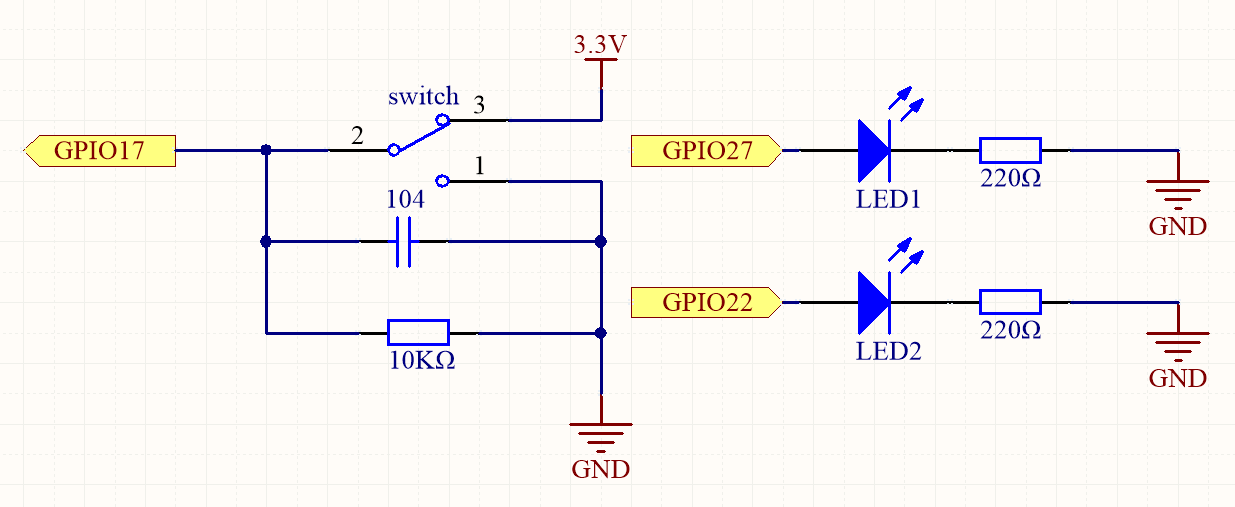
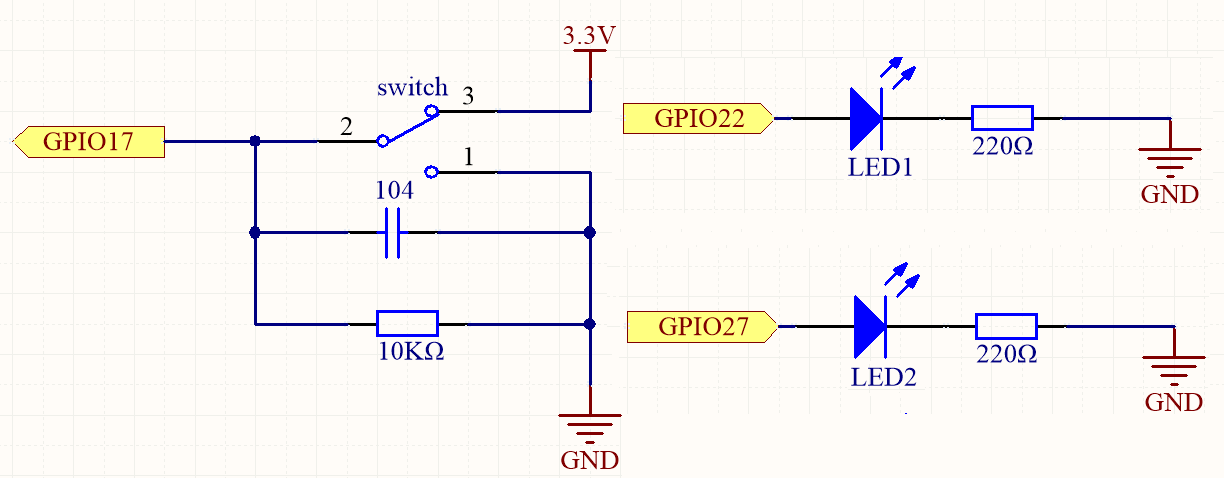
fix(docs): correct Micro Switch LED mapping and update images
- Swap LED1/LED2 logic: pressing the switch lights LED2, releasing lights LED1
- Update circuit and schematic images to match the corrected LED wiring
- Update _shared submodule pointer

diff --git a/docs/source/python_pi5/pi5_2.1.2_micro_switch_python.rst b/docs/source/python_pi5/pi5_2.1.2_micro_switch_python.rst
@@ -140,13 +140,13 @@ Während der Code läuft, drücken Sie den Bewegungsarm, dann leuchtet die gelbe
        # Continuously check the state of the micro switch and control LEDs accordingly
        while True:
            if micro_switch.is_pressed:  # If the micro switch is pressed
-               print('LED1 ON')  # Print a message to the console
-               led1.on()       # Turn on LED1
-               led2.off()      # Turn off LED2
+               print('LED2 ON')  # Print a message to the console
+               led1.off()       # Turn off LED1
+               led2.on()      # Turn on LED2
            else:  # If the micro switch is not pressed
-               print('    LED2 ON')  # Print a message to the console
-               led1.off()      # Turn off LED1
-               led2.on()       # Turn on LED2
+               print('    LED1 ON')  # Print a message to the console
+               led1.on()      # Turn on LED1
+               led2.off()       # Turn off LED2
 
            sleep(0.5)  # Pause for 0.5 seconds before checking the switch again
 
@@ -177,7 +177,7 @@ Während der Code läuft, drücken Sie den Bewegungsarm, dann leuchtet die gelbe
        led2 = LED(27)
 
 
-#. In der Hauptschleife wird der Zustand des Mikroschalters überprüft. Wenn gedrückt, schaltet sich LED1 ein und LED2 aus. Wenn nicht gedrückt, schaltet sich LED1 aus und LED2 ein. Die Schleife wiederholt sich alle 0,5 Sekunden. Fängt eine Tastaturunterbrechung (wie Strg+C) ab, um das Skript anmutig zu beenden.
+#. In der Hauptschleife wird der Zustand des Mikroschalters überprüft. Wenn gedrückt, schaltet sich LED2 ein und LED1 aus. Wenn nicht gedrückt, schaltet sich LED2 aus und LED1 ein. Die Schleife wiederholt sich alle 0,5 Sekunden. Fängt eine Tastaturunterbrechung (wie Strg+C) ab, um das Skript anmutig zu beenden.
 
    .. code-block:: python
 
@@ -185,13 +185,13 @@ Während der Code läuft, drücken Sie den Bewegungsarm, dann leuchtet die gelbe
            # Continuously check the state of the micro switch and control LEDs accordingly
            while True:
                if micro_switch.is_pressed:  # If the micro switch is pressed
-                   print('LED1 ON')  # Print a message to the console
-                   led1.on()       # Turn on LED1
-                   led2.off()      # Turn off LED2
+                   print('LED2 ON')  # Print a message to the console
+                   led1.off()       # Turn off LED1
+                   led2.on()      # Turn on LED2
                else:  # If the micro switch is not pressed
-                   print('    LED2 ON')  # Print a message to the console
-                   led1.off()      # Turn off LED1
-                   led2.on()       # Turn on LED2
+                   print('    LED1 ON')  # Print a message to the console
+                   led1.on()      # Turn on LED1
+                   led2.off()       # Turn off LED2
 
                sleep(0.5)  # Pause for 0.5 seconds before checking the switch again
 
